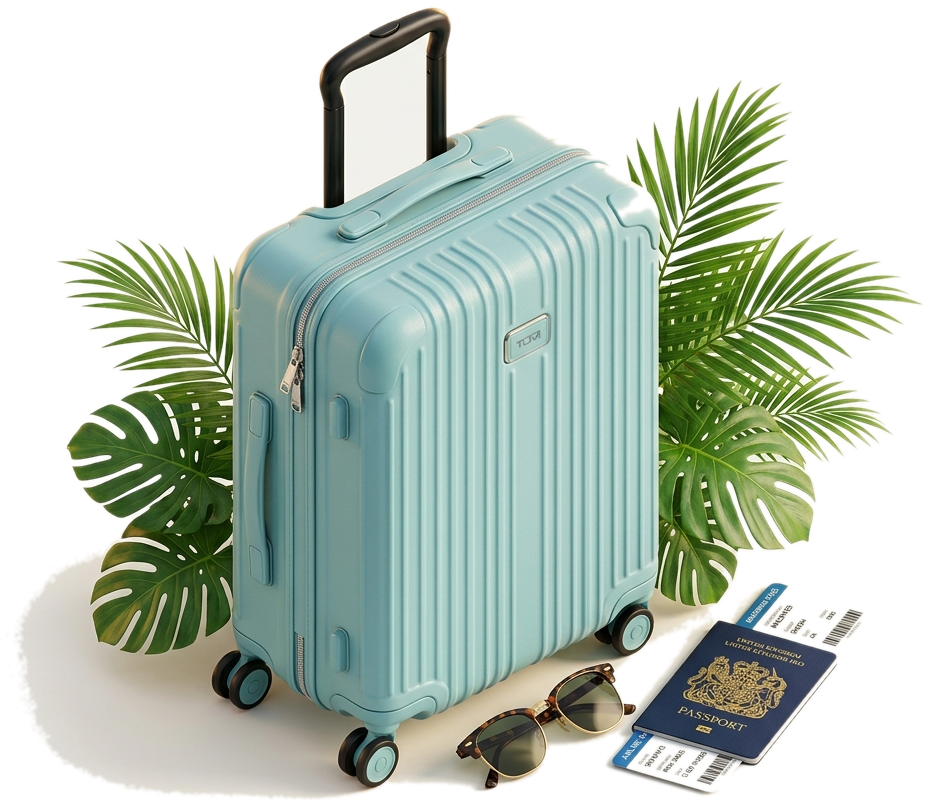
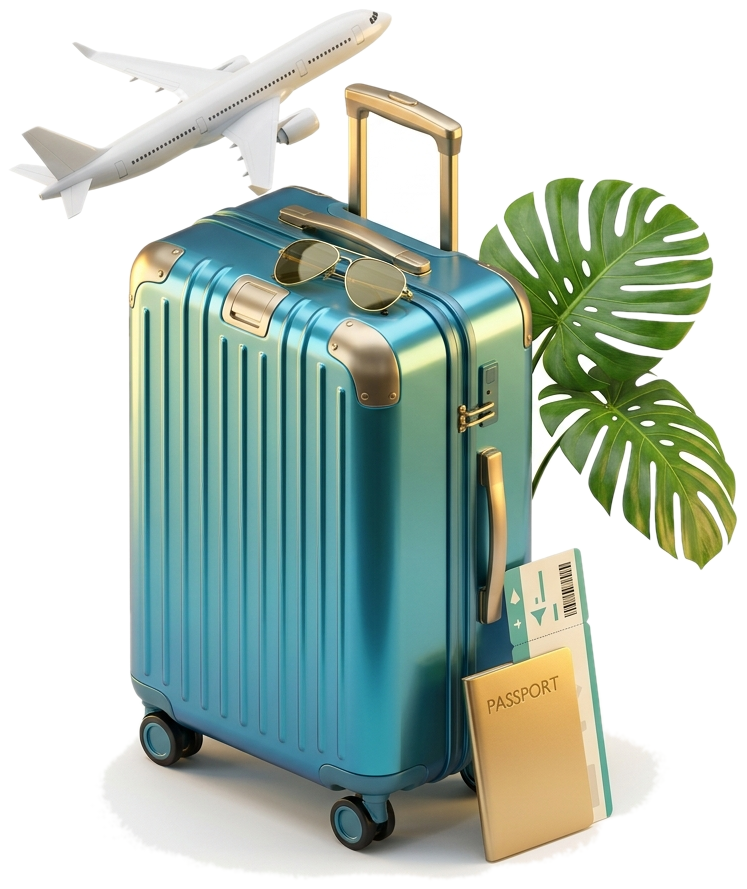
feat(hero): upgrade salon and travel hero section 3D artworks with new premium assets

diff --git a/index.html b/index.html
@@ -468,7 +468,7 @@
                   </svg>
                 </span>
                 <div class="swiggy-card-art-box">
-                  <img src="hero-card-salon.png" alt="Salon at Home" class="swiggy-card-art-img" loading="lazy">
+                  <img src="hero-card-salon.png?v=2" alt="Salon at Home" class="swiggy-card-art-img" loading="lazy">
                 </div>
               </div>
             </a>
@@ -489,7 +489,7 @@
                   </svg>
                 </span>
                 <div class="swiggy-card-art-box">
-                  <img src="hero-card-travel.png" alt="Travel Retreats" class="swiggy-card-art-img" loading="lazy">
+                  <img src="hero-card-travel.png?v=2" alt="Travel Retreats" class="swiggy-card-art-img" loading="lazy">
                 </div>
               </div>
             </a>
